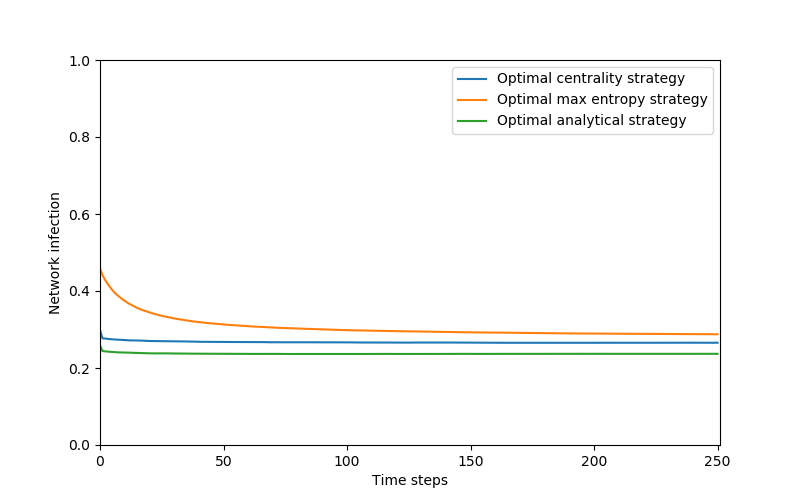
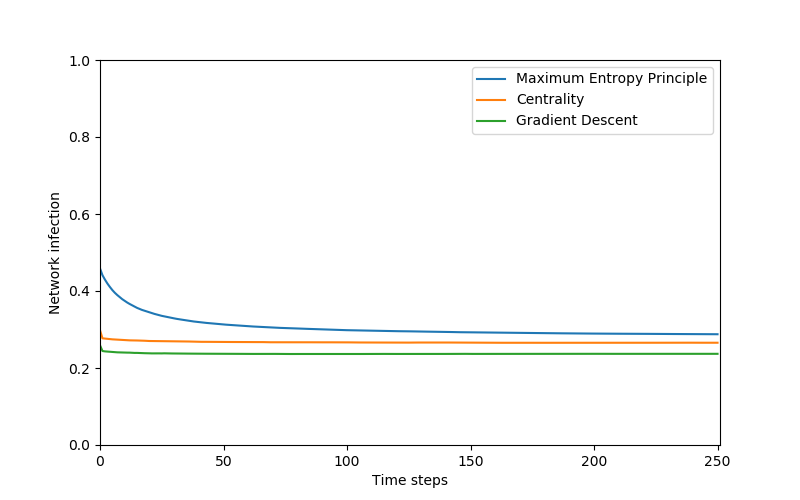
Added function to plot scatter of budget impact

diff --git a/execute/plots/budget_impact.py b/execute/plots/budget_impact.py
@@ -4,17 +4,18 @@ from networkx import from_edgelist, number_of_nodes, degree
 from model import network
 from execute.run_polya import run_polya
 from utilities import balls_per_node, save_trials, load_csv_col, dict_to_arr
-from utilities.plotting import plot_infection
-from numpy import argmax, array,  zeros
+from utilities.plotting import plot_infection, plot_scatter_data
+from numpy import argmax, zeros, array, float
 
-uniform = False
-fresh_data = True
+uniform = True
+fresh_data = False
 
 # Define constants
 file_name = 'uniform_red' if uniform else 'single_red'
 img_name = '../../results/budget_impact/' + file_name + '.png'
+scatter_name = '../../results/budget_impact/time_N.png'
 data_name = '../../data/budget_impact/' + file_name + '.csv'
-ratios = [.25, .5, .75, 1, 1.25, 1.5, 1.75, 2, 2.25, 2.5, 5, 10, 25, 50]
+ratios = array([.25, .5, .75, 1, 1.25, 1.5, 1.75, 2, 2.25, 2.5, 5, 10, 25, 50])
 
 if fresh_data:
     airports, routes = load_airport_and_route(deep_load=True)
@@ -38,9 +39,15 @@ if fresh_data:
         vals = run_polya(net)
         trial_infection.append(vals)
 else:
-    trial_infection, ratios = load_csv_col(data_name, with_headers=True)
+    trial_infection, ratios = load_csv_col(data_name, with_headers=True, trans=True, parse=float)
+    ratios = array(ratios).astype(float)
+time_N_infections = trial_infection[:, len(trial_infection[0]) - 1]
 
 # Save and plot data
 if fresh_data:
     save_trials(trial_infection, data_name, titles=ratios)
-plot_infection(trial_infection, leg=ratios, multiple=True, file_name=img_name)
+
+plot_infection(trial_infection, leg=ratios, multiple=True, file_name=img_name, blocking=False)
+
+data = array([ratios, time_N_infections])
+plot_scatter_data(data, x_log=True, x_label='Budget Ratio', y_label='Time-N infection', file_name=scatter_name)

diff --git a/execute/plots/show_hereditary.py b/execute/plots/show_hereditary.py
@@ -2,11 +2,13 @@ from execute.import_data import load_airport_and_route
 from matplotlib.pyplot import figure, show, legend, savefig
 from utilities import dict_to_arr, bin_midpoints, filter_degree, re_index, fig_size
 from networkx import degree, from_edgelist
-from numpy import histogram
+from numpy import histogram, min, max, polyfit, poly1d, linspace, log, delete, exp
 
 leg = [
+    'Unfiltered line of best fit',
+    'Filtered line of best fit',
     'Unfiltered data',
-    'Filtered data'
+    'Filtered data',
 ]
 
 # Raw data
@@ -27,6 +29,21 @@ degrees = dict_to_arr(degree(netx))
 f_h_data, bins = histogram(degrees, bins=20)
 f_midpoints = bin_midpoints(bins)
 
+to_delete = []
+for i, val in enumerate(f_h_data):
+    if val == 0:
+        to_delete.append(i)
+to_delete = sorted(to_delete, reverse=True)
+for ind in to_delete:
+    f_h_data = delete(f_h_data, ind)
+    f_midpoints = delete(f_midpoints, ind)
+
+fit_degree = 2
+uf_domain = linspace(min(raw_midpoints), max(raw_midpoints))
+f_domain = linspace(min(f_midpoints), max(f_midpoints))
+
+uf_best_fit = poly1d(polyfit(raw_midpoints, log(raw_h_data), fit_degree))
+f_best_fit = poly1d(polyfit(f_midpoints, log(f_h_data), fit_degree))
 
 # Plot results
 fig = figure('Node degree distribution', figsize=fig_size)
@@ -35,6 +52,9 @@ ax.set_title('Node degree distribution')
 
 ax.scatter(raw_midpoints, raw_h_data)
 ax.scatter(f_midpoints, f_h_data)
+
+ax.plot(uf_domain, exp(uf_best_fit(uf_domain)))
+ax.plot(f_domain, exp(f_best_fit(f_domain)))
 
 ax.set_yscale('log')
 ax.set_ylabel('Number of nodes')

diff --git a/utilities/plotting/analysis.py b/utilities/plotting/analysis.py
@@ -1,6 +1,7 @@
 from matplotlib.pyplot import figure, show, title, savefig, plot, legend, xlabel, ylabel
 from numpy import polyfit, poly1d, linspace, min, max
 from utilities.io import save_frequencies
+from utilities import fig_size
 
 
 def plot_w_best_fit(data, _title='Fitted data', filename='', blocking=False, x_label='', y_label='', data_name='', degree=2):
@@ -24,8 +25,8 @@ def plot_w_best_fit(data, _title='Fitted data', filename='', blocking=False, x_l
     show(block=blocking)
 
 
-def plot_scatter_data(data, multiple=False, file_name=None, leg=None, blocking=True, x_label=None, y_label=None):
-    fig = figure()
+def plot_scatter_data(data, multiple=False, file_name=None, leg=None, blocking=True, x_label=None, y_label=None, x_log=False):
+    fig = figure(figsize=fig_size)
     ax = fig.gca()
 
     min_x, max_x, min_y, max_y = 0, 0, 0, 0
@@ -45,17 +46,16 @@ def plot_scatter_data(data, multiple=False, file_name=None, leg=None, blocking=T
         min_x, max_x = min(data[0, :]), max(data[0, :])
         min_y, max_y = min(data[1, :]), max(data[1, :])
 
-    print(min_x, min_y, max_x, max_y)
-
     ax.set_xlim(min_x, max_x)
     y_delta = (max_y - min_y) * .05
     ax.set_ylim(min_y - y_delta, max_y + y_delta)
 
     if x_label is not None: ax.set_xlabel(x_label)
     if y_label is not None: ax.set_ylabel(y_label)
+    if x_log: ax.set_xscale('log')
     if leg is not None: legend(leg)
     if file_name is not None:
         try: savefig(file_name)
-        except: pass
+        except FileExistsError: pass
 
     if blocking: show()

diff --git a/execute/plots/solution_comparison.py b/execute/plots/solution_comparison.py
@@ -9,7 +9,7 @@ centrality_path = data_path + 'centrality_metrics/'
 max_entropy_path = data_path + 'max_entropy/'
 
 versions = ['single_red', 'uniform_red']
-optimal_headers = ['Optimal centrality strategy', 'Optimal max entropy strategy', 'Optimal analytical strategy']
+optimal_headers = ['Maximum Entropy Principle', 'Centrality', 'Gradient Descent']
 
 for version in versions:
     # Get data
@@ -32,7 +32,7 @@ for version in versions:
                    leg=centrality_headers, file_name=centrality_plot_path)
     plot_infection(max_entropy_data[:4], blocking=False, multiple=True,
                    leg=max_entropy_headers, file_name=entropy_plot_path)
-    plot_infection([opt_centrality, opt_entropy, opt_analytical],
+    plot_infection([opt_entropy, opt_centrality, opt_analytical],
                    blocking=False, multiple=True, leg=optimal_headers, file_name=optimal_plot_path)
 
 show()  # Keep figures open
